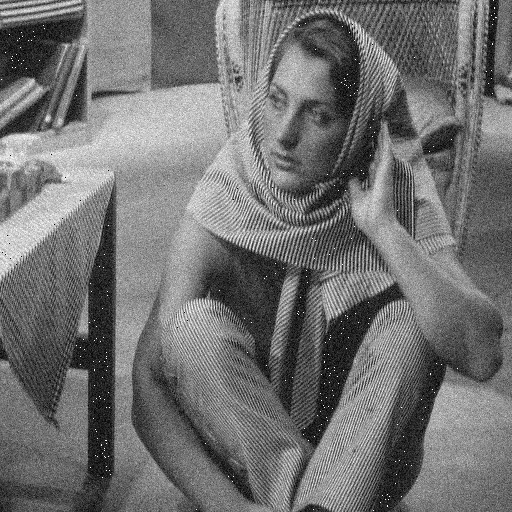
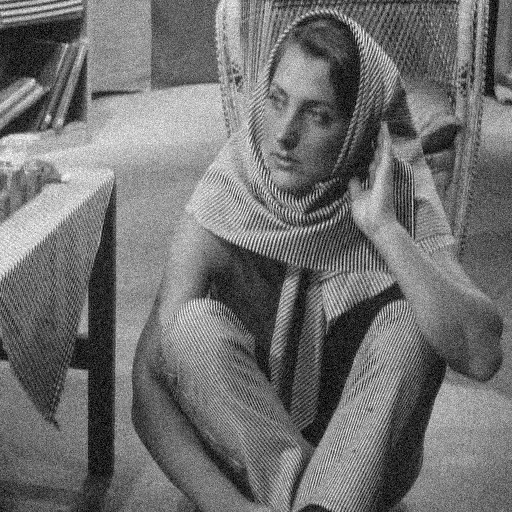
corrections images bruit gaussien

Changed region(s): [[0.0, 0.0, 1.0, 1.0]]

diff --git a/TP5/src/main.cpp b/TP5/src/main.cpp
@@ -281,5 +281,6 @@ int main(int argc, const char * argv[]) {
     //Image<uint8_t> M = computeNLMeans(K,21,3,50.0);
     //writePGM(M,"NLBarbara025.pgm");
 
+
     return 0;
 }

diff --git a/TP5/README.MD b/TP5/README.MD
@@ -96,30 +96,20 @@ Il faut faire attention à bien ramener la nouvelle valeur à zéro si elle est 
 et ramener la valeur à 255 si elle est supérieure à 255.
 
 ```c++
-std::default_random_engine generator;
+std::default_random_engine generator(time(NULL));
 std::normal_distribution<float> distribution(avg, deviation);
 ```
 
 Après avoir initialisé la distribution on va pouvoir attribuer leur nouvelles valeurs
-à chaque pixel. On écrit une fonction qui permet de ramener à 0 ou 255 une valeur qui
-serait en dehors de cet ensemble.
+à chaque pixel.
 
 ```c++
-uint8_t truncPixel(uint8_t val)
+if(val<0)
 {
-  uint8_t res;
-
-  if(val<0)
-  {
-    res = 0;
-  }else if(val>255)
-  {
-      res = 255;
-  }else{
-    res = val;
-  }
-
-  return res;
+  val = 0;
+}else if(val>255)
+{
+    val = 255;
 }
 ```
 
@@ -131,8 +121,17 @@ for(int y=0; y<img.getDy(); y++)
 {
   for(int x=0; x<img.getDx(); x++)
   {
-    uint8_t val = (uint8_t) distribution(generator);
-    res(x,y) = trunc(val+img(x,y));
+    float val = distribution(generator) + img(x,y);
+
+    if(val<0)
+    {
+      val = 0;
+    }else if(val>255)
+    {
+        val = 255;
+    }
+
+    res(x,y) = (uint8_t) val;
   }
 }
 ```
